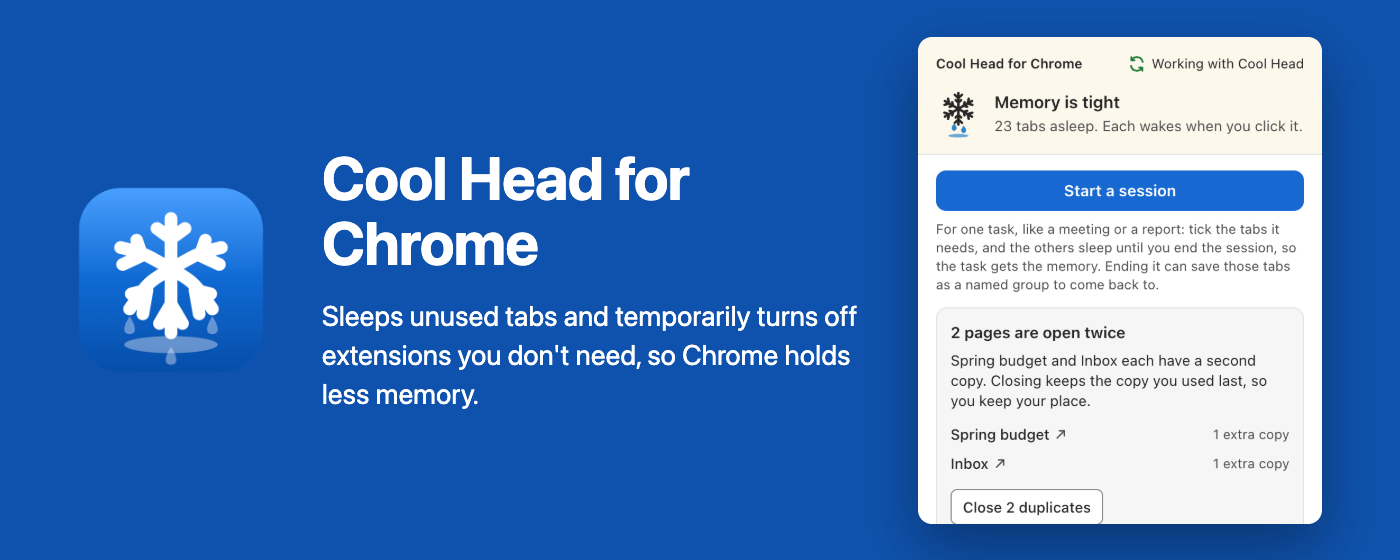
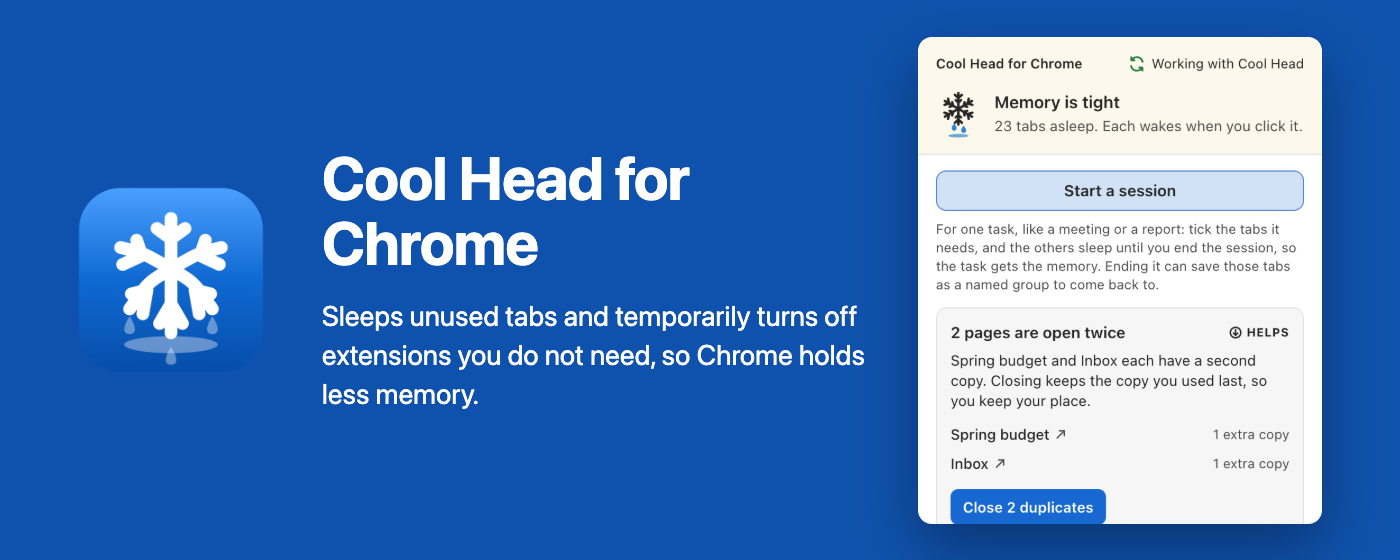
Cool Head for Chrome 1.4.0: the version on its own line in Settings, and negatives spelled out
Settings' About card shows "Cool Head for Chrome version 1.4.0" on its own
line at the top, rather than at the start of a sentence at the bottom.

Negative contractions are spelled out (cannot, do not, is not) in the
extension, its setup page, log lines, the manifest, and the store listing,
following GOV.UK's style guide: many readers misread them as the opposite.
Positive ones (it's, you're) stay. A test fails on any new negative or
conditional contraction, however its apostrophe is written, and another
holds the store summary to its 132 characters. Store images remade.

Assisted-by: Claude Code:claude-opus-5-5

diff --git a/Extension/chrome/src/logic/words.js b/Extension/chrome/src/logic/words.js
@@ -64,10 +64,10 @@ export const LINKED_WAITING_TITLE = 'Working with Cool Head';
 export const ALONE_TITLE = 'Working on its own';
 export const LINK_TEXT = {
   linked: 'Working with Cool Head',
-  notRunning: "Cool Head isn't open",
+  notRunning: "Cool Head is not open",
   notLinked: 'Not linked to Cool Head',
 };
-export const ALONE_LINE_MAC = "It can't see your Mac's memory, so tabs sleep by the level you choose.";
+export const ALONE_LINE_MAC = "It cannot see your Mac's memory, so tabs sleep by the level you choose.";
 
 export function asleepLine(n) {
   if (n === 0) return 'No tabs asleep right now.';
@@ -111,9 +111,9 @@ export function levelLine(level, o = {}) {
     case 'auto':
       if (!linked) return 'Auto is waiting for Cool Head, so nothing sleeps on its own for now. Choose another level to sleep tabs without it.';
       if (!coolHeadAuto) return "Auto is off in Cool Head's settings, so nothing sleeps on its own. Turn it on there, or choose another level here.";
-      if (autoMode === 'slowed') return "Auto: memory is slowing your Mac, so tabs you haven't used for 30 minutes are going to sleep, oldest first.";
-      if (autoMode === 'veryTight') return "Auto: memory is very tight, so tabs you haven't used for 5 minutes are going to sleep, oldest first.";
-      return "Auto: nothing sleeps while memory is fine. When memory slows your Mac, tabs you haven't used for 30 minutes sleep, oldest first.";
+      if (autoMode === 'slowed') return "Auto: memory is slowing your Mac, so tabs you have not used for 30 minutes are going to sleep, oldest first.";
+      if (autoMode === 'veryTight') return "Auto: memory is very tight, so tabs you have not used for 5 minutes are going to sleep, oldest first.";
+      return "Auto: nothing sleeps while memory is fine. When memory slows your Mac, tabs you have not used for 30 minutes sleep, oldest first.";
     case 'light': return `Light: your 5 most used tabs stay loaded. ${leaving(delayMs)}`;
     case 'balanced': return `Balanced: your 3 most used tabs stay loaded. ${leaving(delayMs)}`;
     case 'focus': return `Focus: only the tab you're on stays loaded. ${leaving(delayMs)}`;
@@ -244,7 +244,7 @@ export function startNote(sleepCount, stayLoaded, resting) {
       parts.push(`${head}: ${list([...counts].map(([reason, k]) => `${k} ${STAY_WHY[reason][k === 1 ? 0 : 1]}`), 9)}.`);
     }
   }
-  if (resting) parts.push("Extensions that aren't protected pause until it ends.");
+  if (resting) parts.push("Extensions that are not protected pause until it ends.");
   return parts.join(' ');
 }
 // What keeps an unticked tab loaded, said of one tab and of several.
@@ -295,14 +295,14 @@ export const DONE = {
   dupsFailed: 'Chrome did not close the duplicates, so nothing changed.',
   foldedGroups: (g, t) => (g === 0
     ? "No tab groups to fold: you've used each one today."
-    : `Folded ${plural(g, 'tab group')} you haven't used today and put ${plural(t, 'tab')} in them to sleep.`),
+    : `Folded ${plural(g, 'tab group')} you have not used today and put ${plural(t, 'tab')} in them to sleep.`),
   rested: (n) => (n === 0 ? 'No extensions to pause: the rest are protected.' : `Paused ${plural(n, 'extension')} until memory clears.`),
   restNeedsYes: 'Cool Head for Chrome needs your yes before it can pause extensions. Open it from the toolbar to allow that.',
   started: (n, s) => `Session started with ${plural(n, 'tab')}. ${s === 0 ? 'No other tabs needed to sleep.' : `${plural(s, 'other tab')} ${s === 1 ? 'is' : 'are'} asleep.`}`,
   ended: 'Session ended. Nothing reloaded.',
   saved: (n, name, already) => `Session ended. Saved ${plural(n, 'tab')} as ${quoted(name)}.${already > 0 ? ` ${plural(already, 'tab was', 'tabs were')} already in a group, so ${already === 1 ? 'it stays' : 'they stay'} there.` : ''}`,
   levelSet: (l) => `${LEVEL_NAME[l]} chosen.`,
-  failed: "That didn't work: Chrome refused it. Nothing changed.",
+  failed: "That did not work: Chrome refused it. Nothing changed.",
 };
 
 // ---- settings ----
@@ -318,10 +318,10 @@ export const ICON_TITLE = 'Toolbar icon';
 export const ICON_LEVELS = ['Memory fine', 'Tight', 'Very tight'];
 export const ICON_STYLES = [['badge', 'Status badge', 'Shapes and colors'], ['melting', 'Melting snowflake', 'Color-blind friendly']];
 export const GLANCE_TITLE = 'Back to sleep after a quick look';
-export const GLANCE_WHY = "A sleeping tab you open and leave within 10 seconds sleeps again at once, and doesn't count as one you use. Not one with a call, typing, or sound.";
+export const GLANCE_WHY = "A sleeping tab you open and leave within 10 seconds sleeps again at once, and does not count as one you use. Not one with a call, typing, or sound.";
 
 export const SITES_TITLE = 'Typing and calls';
-export const SITES_ON = "On: tabs with unsent typing, or using the camera, microphone, or screen sharing, don't sleep on their own, so you don't lose what you typed or drop out of a call.";
+export const SITES_ON = "On: tabs with unsent typing, or using the camera, microphone, or screen sharing, do not sleep on their own, so you do not lose what you typed or drop out of a call.";
 export const SITES_OFF = 'Off: a tab with unsent typing can sleep, and what you typed is lost when it reloads. A call that has been quiet for 10 minutes can sleep too, which ends it.';
 export const SITES_HOW = 'Chrome will ask to "read and change all your data on all websites". It only checks for unsent typing and calls, and puts "zzZ" before a sleeping tab\'s title; it never reads what you type, and nothing leaves your computer.';
 export const SITES_TOGGLE = 'Keep tabs with unsent typing or a call awake';
@@ -336,7 +336,7 @@ export const REST_TITLE = 'Pause extensions';
 export const REST_TOGGLE = 'Pause extensions when memory is very tight or a session runs';
 export const REST_WHY = 'They turn back on afterward. One with tabs open stays on.';
 export const REST_NEEDS = 'Chrome asks you to allow this once.';
-export const PAUSE_REFUSED = "Pausing extensions stays off, since Chrome's permission wasn't given.";
+export const PAUSE_REFUSED = "Pausing extensions stays off, since Chrome's permission was not given.";
 export const REST_SET_UP = 'Choose which stay on';
 export const SAFE_TITLE = 'Extensions';
 export const SAFE_LEDE = "Pausing turns an extension off until the session ends or memory clears, which closes its pages and stops what it's doing. So password managers, blockers, VPNs, and security tools start as Always on: pausing them would lock your passwords, let ads and trackers through, or drop your VPN.";
@@ -389,7 +389,7 @@ export const MIGRATE_LATER_NOTE = 'You can move your suspended tabs any time fro
 export function migrateProgress(done, total) { return `Moving ${done} of ${total}`; }
 export const MIGRATE_KEEP_GOING = 'You can close this; it keeps going.';
 export function migrateDone(n) { return `${plural(n, 'tab')} moved. Each is asleep and wakes when you click it.`; }
-export function migrateFailed(n) { return `${plural(n, "tab couldn't", "tabs couldn't")} be moved and ${n === 1 ? 'stays' : 'stay'} with the suspender.`; }
+export function migrateFailed(n) { return `${plural(n, "tab could not", "tabs could not")} be moved and ${n === 1 ? 'stays' : 'stay'} with the suspender.`; }
 export function migrateParked(n) {
   return n === 1 ? "1 tab's address downloads a file instead of opening a page, so it now shows a page of Cool Head for Chrome's with its address. Nothing needs the suspender any more."
     : `${n} tabs' addresses download a file instead of opening a page, so they now show a page of Cool Head for Chrome's with their address. Nothing needs the suspender any more.`;
@@ -399,16 +399,16 @@ export const PARKED_WHY = "This tab's address downloads a file instead of openin
 export const PARKED_ADDRESS = 'Its address:';
 export const PARKED_DOWNLOAD = 'Download it again';
 export const PARKED_CLOSE = 'Close this tab';
-export function migrateRemove(name) { return `Remove ${name || 'the suspender'} now, so it can't suspend them again.`; }
+export function migrateRemove(name) { return `Remove ${name || 'the suspender'} now, so it cannot suspend them again.`; }
 export const MIGRATE_REMOVE = 'Remove it';
 export const MIGRATE_NOT_NOW = 'Not now';
-export function about(version) {
-  return `Version ${version}. Free and open source under the AGPL. Nothing leaves your computer: no network use and no analytics.`;
-}
+// the version on its own line at the top of About, as the Mac app's Settings shows its own, so it's found at a glance
+export function versionLine(version) { return `Cool Head for Chrome version ${version}`; }
+export const ABOUT = 'Free and open source under the AGPL. Nothing leaves your computer: no network use and no analytics.';
 
 // ---- setup page ----
 export const SETUP_TITLE = 'Cool Head for Chrome is installed';
-export const SETUP_LEDE = "Tabs you aren't using will sleep: they stay in your tab bar and reload when you click them, which frees memory for what you're doing.";
+export const SETUP_LEDE = "Tabs you are not using will sleep: they stay in your tab bar and reload when you click them, which frees memory for what you're doing.";
 export const SETUP_HOW = 'How to use it';
 // each step is [title, what to do]; the Mac app's step shows only on a Mac
 export const SETUP_STEPS = [
@@ -422,7 +422,7 @@ export const SETUP_OPTIONAL = 'optional';
 export const SETUP_OPTIONAL_TAG = 'Optional';
 export const SETUP_NOTHING_ELSE = "There's nothing else to set up. It works by itself from now on.";
 export const SETUP_ASK = 'Protect unsent typing and calls?';
-export const SETUP_WHY = "A tab with unsent typing, or on a call, won't sleep on its own, so you don't lose what you typed or drop out of the call.";
+export const SETUP_WHY = "A tab with unsent typing, or on a call, will not sleep on its own, so you do not lose what you typed or drop out of the call.";
 export const SETUP_YES = 'Protect them';
 export const SETUP_NO = 'Not now';
 export const SETUP_NO_COST = 'Not now: a sleeping tab loses unsent typing when it reloads, a call quiet for 10 minutes can end, and sleeping tabs show no "zzZ". You can turn this on later in Settings.';
@@ -435,9 +435,9 @@ export const SETUP_DONE_YES_TITLE = 'Protected';
 export const SETUP_DONE_YES = 'Tabs with unsent typing or on a call stay loaded.';
 export const SETUP_DONE_NO_TITLE = 'Not protected for now';
 export const SETUP_DONE_NO = 'You can turn this on later in Settings.';
-export const SETUP_REFUSED_TITLE = "Chrome didn't allow it";
+export const SETUP_REFUSED_TITLE = "Chrome did not allow it";
 export const SETUP_CLOSE = 'You can close this tab.';
-export const SETUP_REFUSED = "Chrome didn't allow it, so this stays off. You can try again later in Settings.";
+export const SETUP_REFUSED = "Chrome did not allow it, so this stays off. You can try again later in Settings.";
 export const SETUP_NEXT = "Open Cool Head for Chrome from the puzzle piece in the toolbar; pin it there to see at a glance how tight your computer's memory is.";
 
 // ---- the right-click menu ----
@@ -451,10 +451,10 @@ export function siteAdd(host) { return `Keep ${host} awake`; }
 export const SITE_REMOVE = 'Remove';
 
 export const OFFLINE_TITLE = 'Offline';
-export const OFFLINE_TOGGLE = "Don't sleep tabs while you're offline";
-export const OFFLINE_WHY = "A sleeping tab can't reload until you're back online.";
-export const OFFLINE_CARD_TITLE = "You're offline, so tabs aren't sleeping";
-export const OFFLINE_CARD_LINE = "Memory is low. Sleeping tabs would free it, but they couldn't reload until you're back online. You can let them sleep anyway in Settings.";
+export const OFFLINE_TOGGLE = "Do not sleep tabs while you're offline";
+export const OFFLINE_WHY = "A sleeping tab cannot reload until you're back online.";
+export const OFFLINE_CARD_TITLE = "You're offline, so tabs are not sleeping";
+export const OFFLINE_CARD_LINE = "Memory is low. Sleeping tabs would free it, but they could not reload until you're back online. You can let them sleep anyway in Settings.";
 export const OFFLINE_CARD_BUTTON = 'Open Settings';
 
 export const SHORTCUT_THIS = 'This tab';
@@ -483,11 +483,11 @@ export const WINDOWS_REOPEN = 'Reopen';
 export const WINDOWS_REMOVE = 'Remove';
 export const WINDOWS_DELETE = 'Delete';
 export const windowsReopenAsk = (n) => `Opens ${n === 1 ? 'its tab' : `its ${n} tabs`} asleep in a new window, then removes the folder.`;
-export const windowsRemoveAsk = (n) => `Deletes the folder and its ${n} ${n === 1 ? 'bookmark' : 'bookmarks'}. This can't be undone.`;
+export const windowsRemoveAsk = (n) => `Deletes the folder and its ${n} ${n === 1 ? 'bookmark' : 'bookmarks'}. This cannot be undone.`;
 export const WINDOWS_CANCEL = 'Cancel';
 export const WINDOWS_EMPTY = "No saved windows yet. Save a window above when you're done with it for now.";
 export const WINDOWS_OTHERS = 'Not saved by Cool Head';
-export const WINDOWS_OTHERS_WHY = `These are in the ${WINDOWS_FOLDER} folder, but Cool Head for Chrome didn't put them there. Tidy moves them to Other bookmarks; it never deletes them.`;
+export const WINDOWS_OTHERS_WHY = `These are in the ${WINDOWS_FOLDER} folder, but Cool Head for Chrome did not put them there. Tidy moves them to Other bookmarks; it never deletes them.`;
 export const WINDOWS_TIDY = 'Tidy';
 export const WINDOWS_ASKS = 'The first time, Chrome asks to let Cool Head for Chrome change your bookmarks.';
 export const WINDOWS_SAVE_ANYWAY = 'Save and close anyway';

diff --git a/Extension/chrome/test/contractions.test.js b/Extension/chrome/test/contractions.test.js
@@ -1,0 +1,62 @@
+// The words rule on contractions, as GOV.UK's style guide has it: positive ones (it's, you're, you'll) are fine;
+// negative ones (can't, don't) are spelled out, since many readers misread them as the opposite, and so are
+// conditional ones (should've, would've), which are hard to read. Checked on every line of the extension's code that
+// isn't a comment, so a string anywhere (words, log lines, the setup page) keeps the rule.
+import { test } from 'node:test';
+import assert from 'node:assert/strict';
+import { readFileSync, readdirSync, statSync } from 'node:fs';
+import { join, dirname } from 'node:path';
+import { fileURLToPath } from 'node:url';
+
+const root = join(dirname(fileURLToPath(import.meta.url)), '..');
+// an apostrophe as it may be written in code or HTML: straight or curly, escaped (\' or \u2019), or an entity
+const Q = String.raw`(?:\\?['’]|\\u2019|&rsquo;|&#0?39;|&#x27;|&apos;)`;
+const banned = new RegExp(String.raw`\b[A-Za-z]*n${Q}t\b|\b(?:should|could|would|might|must)${Q}ve\b`, 'i');
+
+function files(dir) {
+  return readdirSync(dir).flatMap((n) => {
+    const p = join(dir, n);
+    return statSync(p).isDirectory() ? files(p) : /\.(js|mjs|html|json)$/.test(n) ? [p] : [];
+  });
+}
+
+// a line's code, without comments: whole-line comments, /* … */ inside it, and // after a space (not in a URL)
+function code(line) {
+  if (/^\s*(\/\/|\*|\/\*)/.test(line)) return '';
+  return line.replace(/\/\*.*?\*\//g, '').replace(/\s\/\/\s.*$/, '');
+}
+
+export function offenders(text) {
+  return text.split('\n').map((l, i) => [i + 1, code(l)]).filter(([, c]) => banned.test(c)).map(([n, c]) => `${n}: ${c.trim().slice(0, 100)}`);
+}
+
+test('no negative or conditional contraction in the extension\'s words', () => {
+  // the folders the store package ships, and the manifest, whose summary and shortcut names show in Chrome
+  const found = [...['src', 'popup', 'setup', 'parked', 'content'].flatMap((d) => files(join(root, d))), join(root, 'manifest.json')]
+    .flatMap((f) => offenders(readFileSync(f, 'utf8')).map((o) => `${f.slice(root.length + 1)}:${o}`));
+  assert.deepEqual(found, []);
+});
+
+test('the check finds them, and leaves positive ones and comments alone', () => {
+  assert.equal(offenders('const A = "It can\'t reload.";').length, 1);
+  assert.equal(offenders('const A = `Chrome didn’t allow it`;').length, 1);
+  assert.equal(offenders('const A = "You should\'ve saved it";').length, 1);
+  assert.equal(offenders('const A = "It\'s asleep, and you\'re offline.";').length, 0);
+  assert.equal(offenders('// a tab that can\'t reload').length, 0);
+  assert.equal(offenders('x(); // it doesn\'t count').length, 0);
+  const bs = String.fromCharCode(92);
+  assert.equal(offenders("const A = 'Chrome didn" + bs + "'t allow it';").length, 1);
+  assert.equal(offenders('const A = "It can' + bs + 'u2019t";').length, 1);
+  assert.equal(offenders('<p>It can&rsquo;t reload.</p>').length, 1);
+  assert.equal(offenders('<p>It can&#39;t reload.</p>').length, 1);
+  assert.equal(offenders('const A = "DON\'T CLOSE";').length, 1);
+  assert.equal(offenders("const A = `${n === 1 ? 'is' : 'are'}n't`;").length, 1);
+  assert.equal(offenders("const A = 'the tab' + bs + \"'s title\";").length, 0);
+});
+
+// Not caught: a contraction joined from parts ("didn" + "'t"); none is written that way.
+
+test('the store summary fits the 132 characters the Chrome Web Store allows', () => {
+  const m = JSON.parse(readFileSync(join(root, 'manifest.json'), 'utf8'));
+  assert.ok(m.description.length <= 132, `${m.description.length} characters`);
+});

diff --git a/Extension/chrome/src/worker.js b/Extension/chrome/src/worker.js
@@ -137,7 +137,7 @@ async function sleepMany(ids, opts = {}) {
       slept.push(r.id);
       log('slept', `Slept ${site}: ${opts.why ? opts.why(r.t) : 'asked'}`, { tab: r.id });
     } else {
-      log('spared', `Didn't sleep ${site}: ${r.why}`, { tab: id });
+      log('spared', `Did not sleep ${site}: ${r.why}`, { tab: id });
     }
   }
   if (slept.length) {
@@ -307,7 +307,7 @@ async function endSession(save, name) {
         const groupId = await chrome.tabs.group({ tabIds: ids });
         await chrome.tabGroups.update(groupId, { title });
         grouped += ids.length;
-      } catch { /* a window closed meanwhile: its tabs simply aren't grouped */ }
+      } catch { /* a window closed meanwhile: its tabs simply are not grouped */ }
     }
     message = W.DONE.saved(grouped, title, plan.alreadyGrouped.length);
   }
@@ -446,7 +446,7 @@ async function answerLinkRequest({ action }) {
   const { tabs, s, now, ctx } = await gather();
   switch (action) {
     case 'sleepHidden': {
-      const slept = await sleepMany(planSleepHidden(tabs, planCtx(s, ctx, now)), { why: () => "Cool Head's card asked to sleep tabs you aren't looking at" });
+      const slept = await sleepMany(planSleepHidden(tabs, planCtx(s, ctx, now)), { why: () => "Cool Head's card asked to sleep tabs you are not looking at" });
       await refreshBadge();
       return { ok: true, count: slept.length, done: W.DONE.sleptMany(slept.length) };
     }
@@ -903,7 +903,7 @@ function actLine(m, tab) {
     case 'close': return `Closed ${site} from the popup`;
     case 'leaveDelay': return `Set the delay after leaving a tab to ${m.ms / 1000} seconds`;
     case 'keepSite': return `${m.on ? 'Kept' : 'Stopped keeping'} the site ${m.host}`;
-    case 'offlineHold': return `Don't sleep while offline: ${m.on ? 'on' : 'off'}`;
+    case 'offlineHold': return `Do not sleep while offline: ${m.on ? 'on' : 'off'}`;
     case 'sites': return `Access to all sites: ${m.on ? 'on' : 'off'}`;
     case 'restEnabled': return `Rest extensions: ${m.on ? 'on' : 'off'}`;
     default: return `Pressed ${m.action}`;
@@ -1045,7 +1045,7 @@ async function runMigration() {
     if (moved.length) await store.change((s) => ({ asleep: [...new Set([...s.asleep, ...moved])] }));
     const doneFrom = [...new Set([...(s0.migrated?.extIds || []), ...extIds])];
     await store.save({ migrating: null, migrated: { moved: done, failed, stuck: stuckAt.length, extIds: doneFrom } });
-    log('migrate', `Moved ${done} tabs${failed ? `; ${failed} couldn't be moved` : ''}${stuckAt.length ? `; ${stuckAt.length} open a download, now on a page of this extension's` : ''}`);
+    log('migrate', `Moved ${done} tabs${failed ? `; ${failed} could not be moved` : ''}${stuckAt.length ? `; ${stuckAt.length} open a download, now on a page of this extension's` : ''}`);
     await refreshBadge();
   } finally {
     migrating = false;
@@ -1200,7 +1200,7 @@ async function sleepFrontTab(tab) {
   if (!tab || tab.discarded) return;
   const tabs = await tabsNow({ windowId: tab.windowId });
   const show = tabToShowInstead(tabs, tab.id);
-  if (show == null) { log('spared', `Didn't sleep ${host(tab.url)}: it's the only tab in its window`, { tab: tab.id }); return; }
+  if (show == null) { log('spared', `Did not sleep ${host(tab.url)}: it's the only tab in its window`, { tab: tab.id }); return; }
   await chrome.tabs.update(show, { active: true });
   await sleepMany([tab.id], { force: true, why: () => 'the keyboard shortcut' });
   await refreshBadge();

diff --git a/Extension/chrome/src/store.js b/Extension/chrome/src/store.js
@@ -9,7 +9,7 @@ export const LOCAL_DEFAULTS = {
   level: 'balanced',
   levelChosen: false,        // whether the person picked a level; if not, Auto becomes the level once linked
   leaveDelayMs: 30000,
-  glanceSleep: true,         // a tab woken and left within GLANCE_MS sleeps again at once and doesn't count as used
+  glanceSleep: true,         // a tab woken and left within GLANCE_MS sleeps again at once and does not count as used
   kept: [],                  // keep records (logic/keep.js)
   keepQuestions: [],         // kept tabs that matched two restored tabs: { record, candidates }
   session: null,             // { active, tabIds, startedAt }
@@ -20,7 +20,7 @@ export const LOCAL_DEFAULTS = {
   rest: { ids: [], session: false, memory: false },
   setupDone: false,
   keepSites: [],            // sites whose every tab stays awake, as host names without www (logic/reasons.js)
-  offlineHold: true,         // no tab sleeps on its own while Chrome is offline, since a sleeping tab can't reload then
+  offlineHold: true,         // no tab sleeps on its own while Chrome is offline, since a sleeping tab cannot reload then
   iconStyle: 'badge',        // the toolbar icon: 'badge' (shapes and colors) or 'melting' (no color needed)
   toolbarDark: false,        // whether Chrome's toolbar is dark, as the popup last saw, for the toolbar icon's color
   migrateLater: false,       // the person chose "Do it later" for moving a suspender's tabs (Settings still has it)

diff --git a/Extension/chrome/test/words.test.js b/Extension/chrome/test/words.test.js
@@ -72,7 +72,7 @@ test('counts agree with their nouns', () => {
   assert.equal(W.startNote(1, [{ reason: 'sound' }], false), "1 tab sleeps. Nothing closes. 1 unticked tab stays loaded because it is playing sound.");
   assert.equal(W.startNote(31, [{ reason: 'sound' }, { reason: 'typing' }], false), "31 tabs sleep. Nothing closes. 2 unticked tabs stay loaded: 1 is playing sound and 1 has unsent typing.");
   assert.equal(W.startNote(3, [{ reason: 'pinned' }, { reason: 'pinned' }], false), '3 tabs sleep. Nothing closes. 2 unticked tabs stay loaded because they are pinned.');
-  assert.equal(W.startNote(0, [{ reason: 'typing' }, { reason: 'typing' }, { reason: 'kept' }, { reason: 'call' }], true), "No tabs need to sleep. Nothing closes. 4 unticked tabs stay loaded: 2 have unsent typing, 1 is kept by you, and 1 is on a call. Extensions that aren't protected pause until it ends.");
+  assert.equal(W.startNote(0, [{ reason: 'typing' }, { reason: 'typing' }, { reason: 'kept' }, { reason: 'call' }], true), "No tabs need to sleep. Nothing closes. 4 unticked tabs stay loaded: 2 have unsent typing, 1 is kept by you, and 1 is on a call. Extensions that are not protected pause until it ends.");
   assert.equal(W.sessionTitle(4, 31), 'In session: 4 tabs. 31 others asleep.');
   assert.equal(W.usedAgo(30 * 1000), 'Used less than a minute ago');
   assert.equal(W.usedAgo(61 * 60 * 1000), 'Used 1 hour ago');

diff --git a/Extension/chrome/test/view.test.js b/Extension/chrome/test/view.test.js
@@ -49,7 +49,7 @@ test('alone on a Mac: says so, offers Cool Head, and Auto is unavailable with th
 
 test('alone because Cool Head is closed: says to open it, offers no download', () => {
   const v = view([], state({ link: { status: 'notRunning' } }));
-  assert.equal(v.band.link.text, "Cool Head isn't open");
+  assert.equal(v.band.link.text, "Cool Head is not open");
   assert.equal(v.notice.link, null);
 });
 
@@ -223,4 +223,10 @@ test('Start a session says what unticking each tab would do', () => {
   assert.equal(by[music.id].ifUnticked, 'sound');
   assert.equal(by[front.id].ifUnticked, 'active');
   assert.equal(st.windowTabs, 4);
+});
+
+test('Settings shows the version on its own line, and About without it', () => {
+  const v = view([], {}, { version: '1.4.0' });
+  assert.equal(v.settings.version, 'Cool Head for Chrome version 1.4.0');
+  assert.ok(!v.settings.about.includes('1.4.0'));
 });

diff --git a/Extension/chrome/setup/setup.js b/Extension/chrome/setup/setup.js
@@ -36,7 +36,7 @@ async function answer(yes) {
   await chrome.runtime.sendMessage({ type: 'act', action: 'sites', on: granted }).catch(() => {});
   if (!yes) done(W.SETUP_DONE_NO_TITLE, W.SETUP_DONE_NO, true);
   else if (granted) done(W.SETUP_DONE_YES_TITLE, W.SETUP_DONE_YES, true);
-  else done(W.SETUP_REFUSED_TITLE, W.SETUP_REFUSED.replace("Chrome didn't allow it, so this", 'So this'), false);
+  else done(W.SETUP_REFUSED_TITLE, W.SETUP_REFUSED.replace("Chrome did not allow it, so this", 'So this'), false);
 }
 
 // Optional, after the one choice: let it turn off extensions you don't need, with what stays on said up front.

diff --git a/Extension/chrome/popup/popup.js b/Extension/chrome/popup/popup.js
@@ -373,7 +373,7 @@ document.addEventListener('keydown', (e) => {
 for (const ev of [chrome.tabs.onUpdated, chrome.tabs.onRemoved, chrome.tabs.onCreated, chrome.tabs.onActivated]) ev.addListener(soon);
 
 refresh().catch((e) => {
-  root.textContent = `${W.NAME} couldn't load: ${e.message}`;
+  root.textContent = `${W.NAME} could not load: ${e.message}`;
 });
 
 // Chrome's toolbar follows the system's light or dark; only a page can tell which, so the popup passes it on for the

diff --git a/Extension/chrome/popup/render.js b/Extension/chrome/popup/render.js
@@ -583,6 +583,7 @@ function settingsScreen(view, ui, on) {
         h('span', {}, h('b', { text: W.OFFLINE_TOGGLE }), h('span', { class: 'why', text: W.OFFLINE_WHY })))),
     h('section', { class: 'card', 'aria-labelledby': 'about-h' },
       h('h2', { id: 'about-h', text: W.ABOUT_TITLE }),
+      h('p', { class: 'version', 'data-key': 'version', text: st.version }),
       h('p', { text: st.about })));
   return [band(view, ui, on), main, toolbar(view, ui, on)];
 }

diff --git a/Extension/chrome/src/logic/view.js b/Extension/chrome/src/logic/view.js
@@ -248,7 +248,8 @@ export function buildView(i) {
       restEnabled: Boolean(s.restEnabled),
       managementGranted: Boolean(i.managementGranted),
       restingText: W.restingNow(s.rest?.ids?.length || 0),
-      about: W.about(i.version),
+      version: W.versionLine(i.version),
+      about: W.ABOUT,
       shortcuts: i.shortcuts || { tab: '', others: '' },
       offlineHold: s.offlineHold !== false,
     },

diff --git a/Extension/chrome/popup/popup.css b/Extension/chrome/popup/popup.css
@@ -311,3 +311,6 @@ button.tabtitle.show:hover svg { color: var(--accent); }
 .dialog .btn.wide { margin-top: 10px; }
 .dialog .note { margin: 8px 0 0; }
 .warn span { min-width: 0; overflow-wrap: anywhere; }   /* a long address in a warning wraps inside its box */
+
+/* the version, its own line at the top of About */
+.card p.version { font-weight: 600; color: var(--text); margin-bottom: 4px; }

diff --git a/Extension/chrome/store/make-images.py b/Extension/chrome/store/make-images.py
@@ -31,8 +31,8 @@ p{font-size:24px;line-height:1.45;color:#3A3A3A}
 # (file name, popup render, its preview screen and theme, headline, line under it). Renders are 720 by 1200 pixels,
 # shown 404 wide, and each is cut where the drawn popup ends, measured from the preview itself.
 SHOTS = [
-    ("1-tabs", "home-light.png", "home", "light", "Tabs you aren't using go to sleep, so Chrome holds less memory.", "A sleeping tab stays in your tab bar and reloads when you click it. Nothing closes."),
-    ("2-extensions", "protected-extensions-light.png", "protected-ext", "light", "Extensions you don't need pause for a while, then come back on by themselves.", "Nothing is removed. During a session, or when memory is tight, they give back their memory. Password managers, blockers, VPNs, and security tools stay on."),
+    ("1-tabs", "home-light.png", "home", "light", "Tabs you are not using go to sleep, so Chrome holds less memory.", "A sleeping tab stays in your tab bar and reloads when you click it. Nothing closes."),
+    ("2-extensions", "protected-extensions-light.png", "protected-ext", "light", "Extensions you do not need pause for a while, then come back on by themselves.", "Nothing is removed. During a session, or when memory is tight, they give back their memory. Password managers, blockers, VPNs, and security tools stay on."),
     ("3-protected", "protected-light.png", "held", "light", "Calls, sound, unsent typing, and sites you choose stay awake.", "Protected shows each tab it keeps loaded and why, so you choose: keep it, sleep it, or close it."),
     ("4-windows", "save-window-light.png", "windows-dialog", "light", "Done with a window for now? Save it and close it.", "Its tabs go into a bookmark folder. Reopen it later with every tab asleep, or with Chrome's own Open all."),
     ("5-alone", "alone-dark.png", "alone", "dark", "Works on its own, or with Cool Head on a Mac.", "On its own, you set the Effort: how many tabs stay loaded. With Cool Head, a free Mac app, tabs sleep only when memory is actually short."),
@@ -44,7 +44,7 @@ body{width:440px;height:280px;overflow:hidden;background:#0F52AD;color:#fff;font
 img{width:112px;height:112px;border-radius:24px}
 h1{font-size:30px;line-height:1.1;font-weight:700;margin-bottom:12px}
 p{font-size:17px;line-height:1.35}
-</style></head><body><img src=logo.png alt=""><div><h1>Cool Head for Chrome</h1><p>Sleeps unused tabs and temporarily turns off extensions you don't need.</p></div></body></html>"""
+</style></head><body><img src=logo.png alt=""><div><h1>Cool Head for Chrome</h1><p>Sleeps unused tabs and temporarily turns off extensions you do not need.</p></div></body></html>"""
 
 MARQUEE = """<!doctype html><html><head><meta charset=utf-8><style>
 *{margin:0;box-sizing:border-box}
@@ -55,7 +55,7 @@ h1{font-size:60px;line-height:1.08;font-weight:700;letter-spacing:-0.5px;margin-
 p{font-size:28px;line-height:1.4}
 .shot{flex:none;width:404px;height:487px;border-radius:14px;overflow:hidden;box-shadow:0 24px 60px rgba(0,0,0,.35)}
 .shot img{display:block;width:404px}
-</style></head><body><img class=logo src=logo.png alt=""><div class=text><h1>Cool Head for Chrome</h1><p>Sleeps unused tabs and temporarily turns off extensions you don't need, so Chrome holds less memory.</p></div><div class=shot><img src=home-light.png alt=""></div></body></html>"""
+</style></head><body><img class=logo src=logo.png alt=""><div class=text><h1>Cool Head for Chrome</h1><p>Sleeps unused tabs and temporarily turns off extensions you do not need, so Chrome holds less memory.</p></div><div class=shot><img src=home-light.png alt=""></div></body></html>"""
 
 
 def main():
